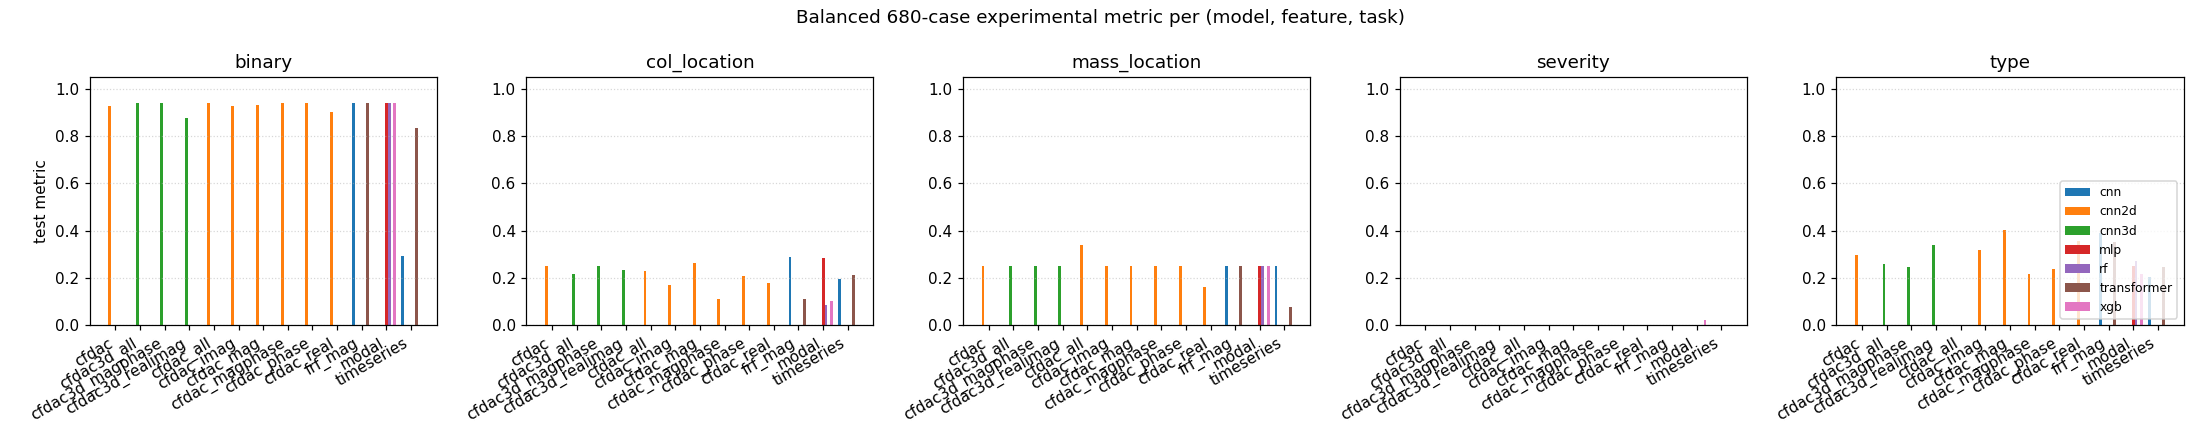
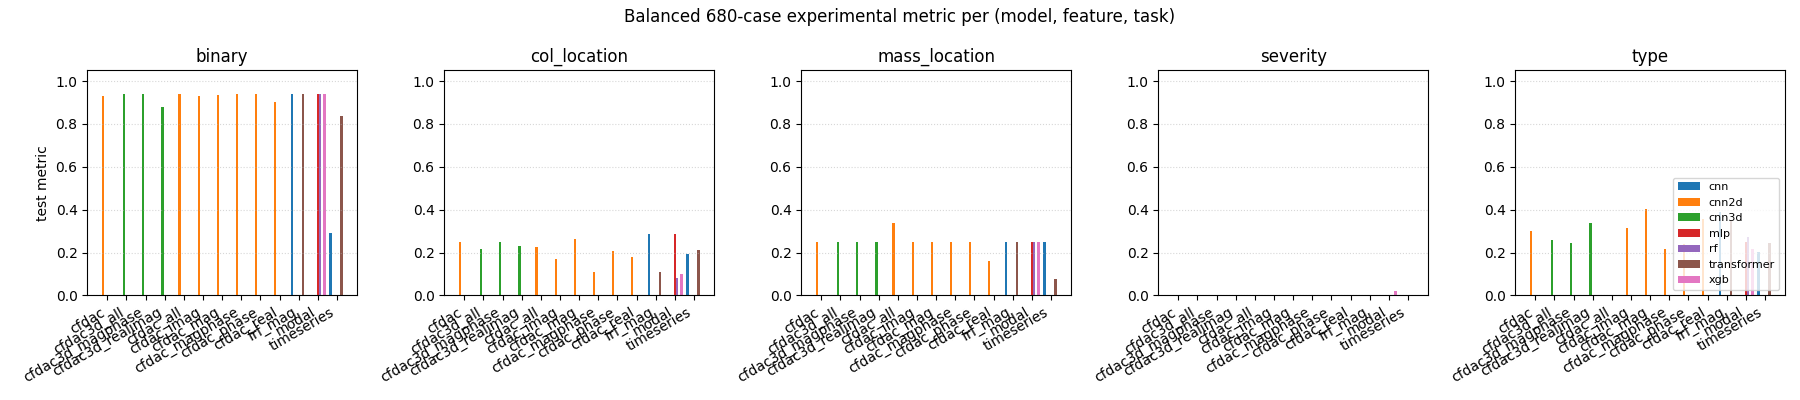
Keep by-task metric figures under the 2000px image limit
The three *_metrics_by_task.png figures rendered at 2200x440 px because
plot_results.py used figsize=(4*n_tasks, 4) at dpi=110 (5 tasks -> 20in
-> 2200px). Any session that read one into context exceeded the 2000px
many-image request limit and became unrepairable.

Reduced to figsize=(3.6*n_tasks, 4) at dpi=100 -> 1800x400 px, and
regenerated all three figures.

https://claude.ai/code/session_015b788LhAVFN1jkfD6L3AiQ

diff --git a/ml_pipeline/plot_results.py b/ml_pipeline/plot_results.py
@@ -26,7 +26,7 @@ def _bar_plot(rows, out_path: Path, title: str) -> None:
     feats = sorted({r["feature"] for r in rows})
     models = sorted({r["model"] for r in rows})
 
-    fig, axes = plt.subplots(1, len(tasks), figsize=(4 * len(tasks), 4), sharey=False)
+    fig, axes = plt.subplots(1, len(tasks), figsize=(3.6 * len(tasks), 4), sharey=False)
     if len(tasks) == 1:
         axes = [axes]
     for ax, task in zip(axes, tasks):
@@ -56,7 +56,7 @@ def _bar_plot(rows, out_path: Path, title: str) -> None:
     axes[-1].legend(loc="lower right", fontsize=8)
     fig.suptitle(title)
     fig.tight_layout()
-    fig.savefig(out_path, dpi=110)
+    fig.savefig(out_path, dpi=100)
     plt.close(fig)
 
 
